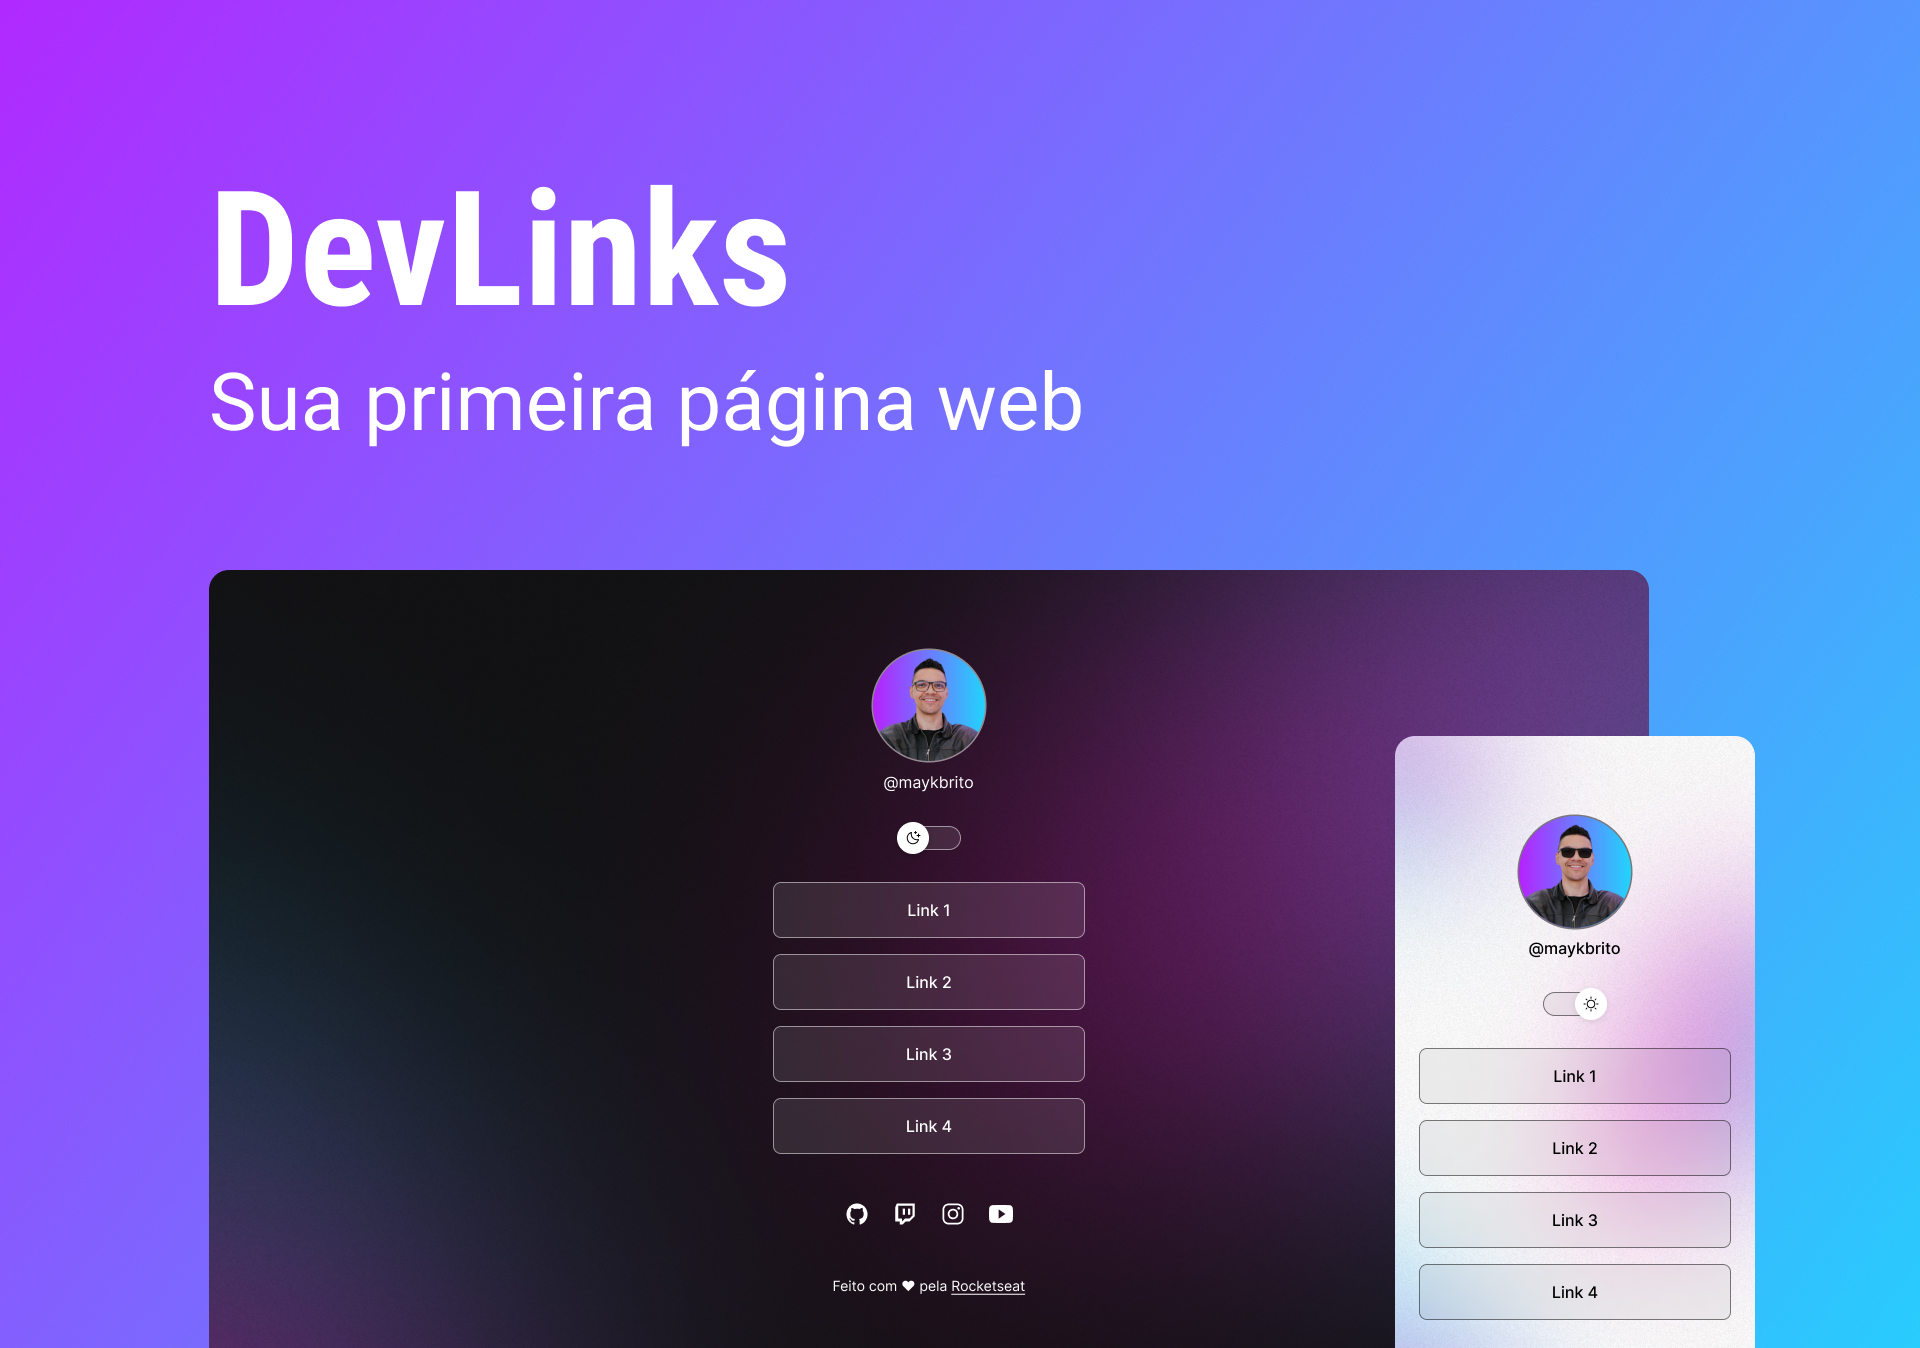
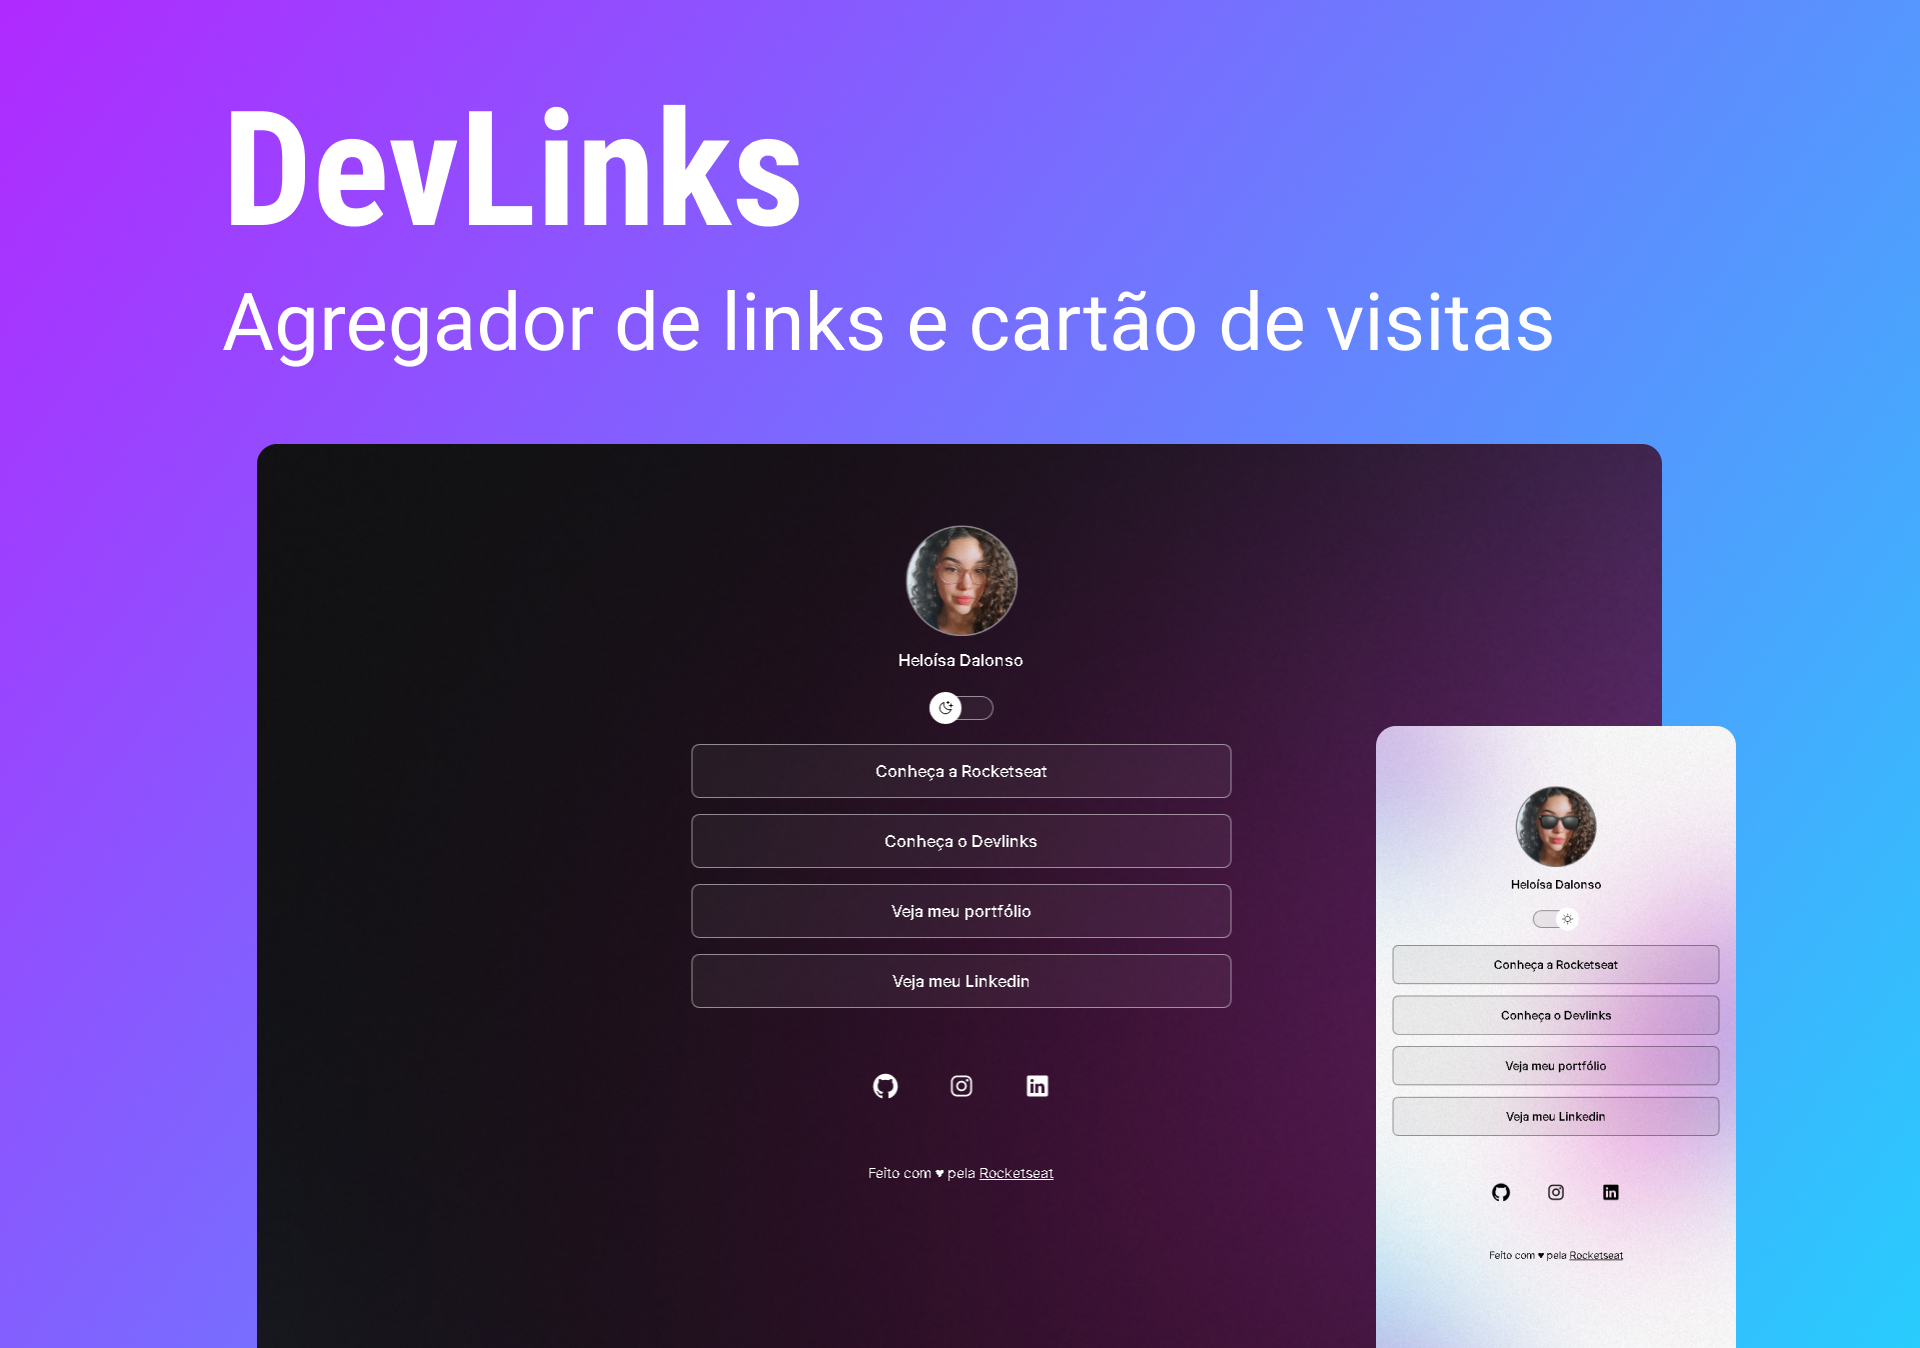
projeto

Changed region(s): [[0.0938, 0.0623, 0.9375, 1.0], [0.4062, 0.7166, 0.5625, 0.9036]]

diff --git a/script.js b/script.js
@@ -14,17 +14,4 @@ function toggleMode() {
   } else {
     img.setAttribute("src", "./assets/avatar.png")
   }
-
-  const alt = document.querySelector("alt")
-  if (html.classList.contains("light")) {
-    alt.setAttribute(
-      "alt",
-      "Foto de Heloísa Dalonso usando óculos escuros em um fundo branco"
-    )
-  } else {
-    alt.setAttribute(
-      "alt",
-      "Foto de Heloísa Dalonso usando óculos de grau em fundo branco"
-    )
-  }
 }

diff --git a/index.html b/index.html
@@ -21,9 +21,7 @@
       <div id="profile">
         <img
           src="./assets/Avatar.png"
-          alt="Foto de Mayk Brito sorrindo, usando
-        óculos, camisa preta com uma jaqueta cinza por cima em um fundo rosa e
-        azul."
+          alt="Foto de Heloísa Dalonso."
         />
         <p>Heloísa Dalonso</p>
       </div>
